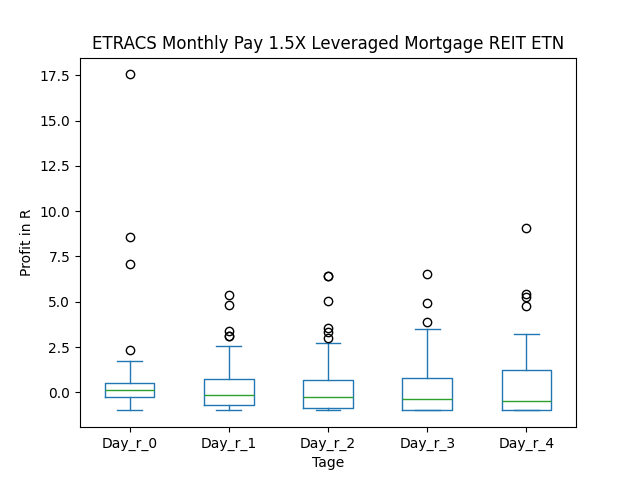
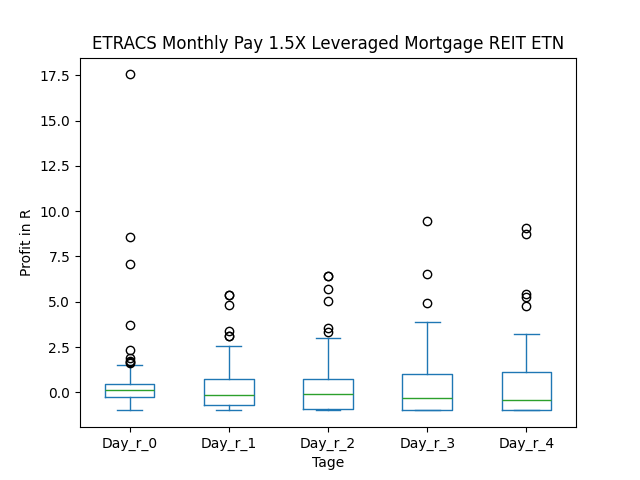
add daily screener

diff --git a/README.md b/README.md
@@ -1,43 +1,43 @@
 # dividend-shorter
 
-bet on falling prices on payday **2026-01-22**.
+bet on falling prices on payday **2026-02-12**.
 
 ## Signale
 
-| Ticker   |   Divid Rate |   Close |     Volume |   last_close_volume |   Divid % | 5_Days_pos   | above_SMA_50   |
-|:---------|-------------:|--------:|-----------:|--------------------:|----------:|:-------------|:---------------|
-| USA      |         0.18 |    6.31 | 1.2027e+06 |             7589037 |      2.85 | False        | True           |
-| OCG      |         0.05 |    1.8  | 1.4733e+06 |             2651940 |      2.78 | False        | False          |
+| Ticker   |   Divid Rate |   Close |   Volume |   last_close_volume |   Divid % | 5_Days_pos   | above_SMA_50   |
+|:---------|-------------:|--------:|---------:|--------------------:|----------:|:-------------|:---------------|
+| MVRL     |         0.5  |   15.42 |    17900 |              276018 |      3.25 | False        | True           |
+| HSNGY    |        19.75 |   19.7  |     8100 |              159570 |    100.25 | True         | True           |
 
-## USA
-
-### Erwartung in R
-|      |   Day_r_0 |   Day_r_1 |   Day_r_2 |   Day_r_3 |   Day_r_4 |   Treffer |
-|:-----|----------:|----------:|----------:|----------:|----------:|----------:|
-| ohne |       0.1 |       0.1 |       0   |       0.1 |      -0.1 |        70 |
-| mit  |      -0.1 |      -0.1 |      -0.1 |      -0.3 |      -0.5 |         4 |
-
-### Ohne Filter
-![image info](./data/USA_box_all.png)
-![image info](./data/USA_median_all.png)
-
-### Mit Filter
-![image info](./data/USA_box_filtered.png)
-![image info](./data/USA_median_filtered.png)
-
-## OCG
+## MVRL
 
 ### Erwartung in R
 |      |   Day_r_0 |   Day_r_1 |   Day_r_2 |   Day_r_3 |   Day_r_4 |   Treffer |
 |:-----|----------:|----------:|----------:|----------:|----------:|----------:|
-| ohne |       nan |       nan |       nan |       nan |       nan |         0 |
-| mit  |       nan |       nan |       nan |       nan |       nan |         0 |
+| ohne |       0.1 |      -0.1 |      -0.1 |      -0.3 |      -0.4 |        67 |
+| mit  |      -0.5 |      -0.2 |      -0.5 |      -0.5 |      -1   |         1 |
 
 ### Ohne Filter
-![image info](./data/OCG_box_all.png)
-![image info](./data/OCG_median_all.png)
+![image info](./data/MVRL_box_all.png)
+![image info](./data/MVRL_median_all.png)
 
 ### Mit Filter
-![image info](./data/OCG_box_filtered.png)
-![image info](./data/OCG_median_filtered.png)
+![image info](./data/MVRL_box_filtered.png)
+![image info](./data/MVRL_median_filtered.png)
+
+## HSNGY
+
+### Erwartung in R
+|      |   Day_r_0 |   Day_r_1 |   Day_r_2 |   Day_r_3 |   Day_r_4 |   Treffer |
+|:-----|----------:|----------:|----------:|----------:|----------:|----------:|
+| ohne |      -0.1 |      -0   |      -0.1 |      -0.2 |      -0.5 |        79 |
+| mit  |      -0   |      -0.1 |      -0.1 |      -0.2 |      -0.2 |         1 |
+
+### Ohne Filter
+![image info](./data/HSNGY_box_all.png)
+![image info](./data/HSNGY_median_all.png)
+
+### Mit Filter
+![image info](./data/HSNGY_box_filtered.png)
+![image info](./data/HSNGY_median_filtered.png)
 

diff --git a/shorts.md b/shorts.md
@@ -1,4 +1,4 @@
-| Ticker   |   Divid Rate |   Close |     Volume |   last_close_volume |   Divid % | 5_Days_pos   | above_SMA_50   |
-|:---------|-------------:|--------:|-----------:|--------------------:|----------:|:-------------|:---------------|
-| USA      |         0.18 |    6.31 | 1.2027e+06 |             7589037 |      2.85 | False        | True           |
-| OCG      |         0.05 |    1.8  | 1.4733e+06 |             2651940 |      2.78 | False        | False          |
+| Ticker   |   Divid Rate |   Close |   Volume |   last_close_volume |   Divid % | 5_Days_pos   | above_SMA_50   |
+|:---------|-------------:|--------:|---------:|--------------------:|----------:|:-------------|:---------------|
+| MVRL     |         0.5  |   15.42 |    17900 |              276018 |      3.25 | False        | True           |
+| HSNGY    |        19.75 |   19.7  |     8100 |              159570 |    100.25 | True         | True           |

diff --git a/data/HSNGY.md b/data/HSNGY.md
@@ -1,0 +1,13 @@
+### Erwartung in R
+|      |   Day_r_0 |   Day_r_1 |   Day_r_2 |   Day_r_3 |   Day_r_4 |   Treffer |
+|:-----|----------:|----------:|----------:|----------:|----------:|----------:|
+| ohne |      -0.1 |      -0   |      -0.1 |      -0.2 |      -0.5 |        79 |
+| mit  |      -0   |      -0.1 |      -0.1 |      -0.2 |      -0.2 |         1 |
+
+### Ohne Filter
+![image info](./data/HSNGY_box_all.png)
+![image info](./data/HSNGY_median_all.png)
+
+### Mit Filter
+![image info](./data/HSNGY_box_filtered.png)
+![image info](./data/HSNGY_median_filtered.png)

diff --git a/data/MVRL.md b/data/MVRL.md
@@ -1,7 +1,7 @@
 ### Erwartung in R
 |      |   Day_r_0 |   Day_r_1 |   Day_r_2 |   Day_r_3 |   Day_r_4 |   Treffer |
 |:-----|----------:|----------:|----------:|----------:|----------:|----------:|
-| ohne |       0.1 |      -0.2 |      -0.3 |      -0.4 |      -0.5 |        57 |
+| ohne |       0.1 |      -0.1 |      -0.1 |      -0.3 |      -0.4 |        67 |
 | mit  |      -0.5 |      -0.2 |      -0.5 |      -0.5 |      -1   |         1 |
 
 ### Ohne Filter
